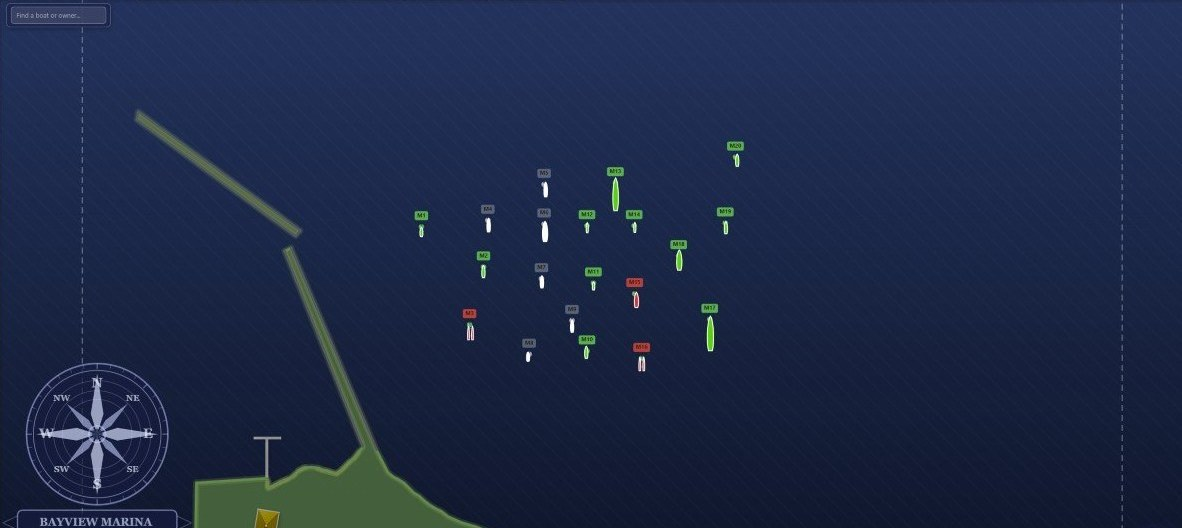
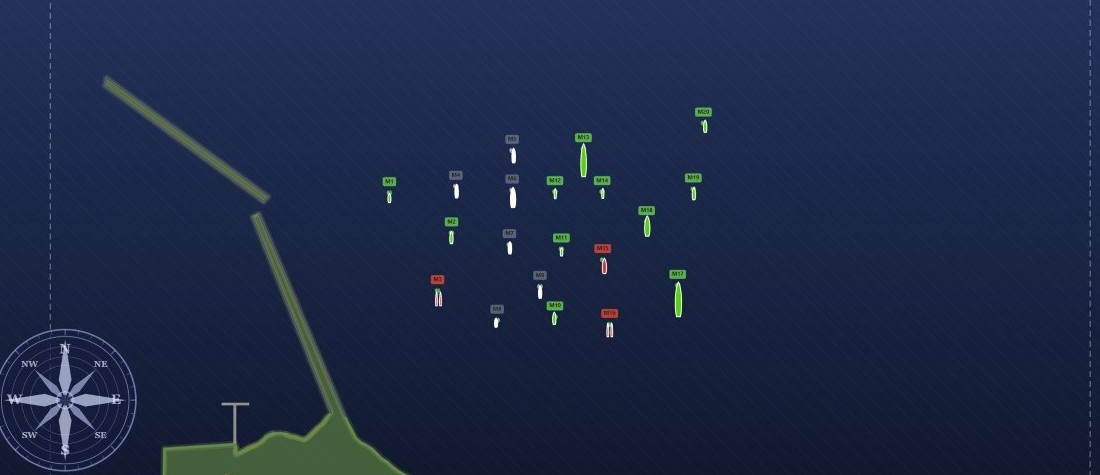
Landing: mooring section, 2D and 3D full width, larger phones

diff --git a/src/app/page.tsx b/src/app/page.tsx
@@ -690,7 +690,7 @@ export default function Home() {
             <h2 className="sk-h2">Find your mooring ball in a big field. Tap it and it pulses.</h2>
             <p className="sk-sub">A transient boater taps Available and every open mooring pulses on the map. A mooring holder taps My spot and goes straight to theirs. Slips and moorings each get their own map, with one tap to switch.</p>
           </div>
-          <div className="sk-grid2" style={{ alignItems: 'start', marginBottom: 36 }}>
+          <div style={{ display: 'grid', gap: 28, marginBottom: 40 }}>
             <div>
               <div className="sk-card" style={{ padding: 0, overflow: 'hidden' }}>
                 <img src="/collage/mooring-2d.jpg" alt="Chart Room 2D map of a mooring field: every mooring ball with its number, green for open and red for overdue" style={{ width: '100%', display: 'block' }} />
@@ -705,13 +705,13 @@ export default function Home() {
             </div>
           </div>
           <div style={{ display: 'flex', gap: 28, flexWrap: 'wrap', justifyContent: 'center', alignItems: 'flex-start' }}>
-            <figure style={{ margin: 0, width: 270, maxWidth: '100%' }}>
+            <figure style={{ margin: 0, width: 310, maxWidth: '100%' }}>
               <div className="sk-card" style={{ padding: 0, overflow: 'hidden', borderRadius: 22 }}>
                 <img src="/collage/mooring-phone.jpg" alt="Boater app on a phone: open moorings M5 and M6 pulse on the Mooring Field map" style={{ width: '100%', display: 'block' }} />
               </div>
               <figcaption style={{ marginTop: 10, fontSize: 13, color: 'rgba(255,255,255,0.6)', textAlign: 'center' }}>Boater app: open moorings pulse on the Mooring Field map.</figcaption>
             </figure>
-            <figure style={{ margin: 0, width: 270, maxWidth: '100%' }}>
+            <figure style={{ margin: 0, width: 310, maxWidth: '100%' }}>
               <div className="sk-card" style={{ padding: 0, overflow: 'hidden', borderRadius: 22 }}>
                 <img src="/collage/slips-phone.jpg" alt="Boater app on a phone: open slips C7, C8 and C9 pulse on the slips map" style={{ width: '100%', display: 'block' }} />
               </div>
